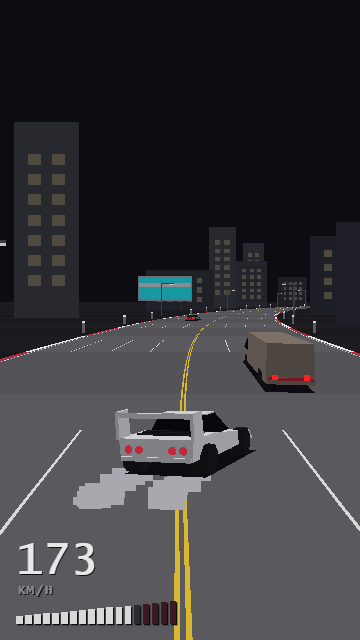
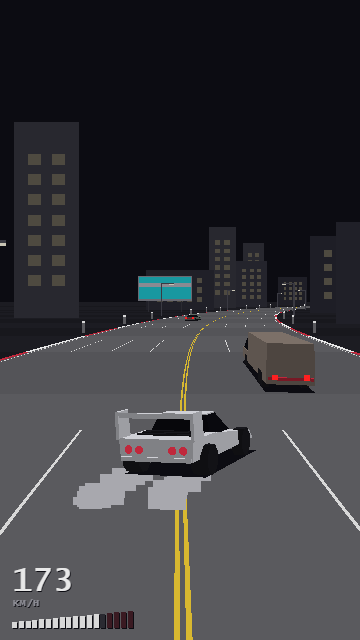
HUD size: em from canvas width (speedometer, leaderboard), divisors in sprites.json

Changed region(s): [[0.0306, 0.8438, 0.5194, 1.0]]

diff --git a/src/ui/speedometer.ts b/src/ui/speedometer.ts
@@ -1,7 +1,19 @@
 import type { Car } from '../sim/types';
 
+/** Size and corner offset of a HUD block over the canvas (src/data/sprites.json). */
+export interface HudLayout {
+  widthEm: number; // canvas width in em: em = min(canvas width / widthEm, canvas height / heightEm)
+  heightEm: number; // canvas height in em (caps em when the canvas is wider than a tall phone)
+  marginEm: number; // offset from the canvas corner, em
+}
+
+/** HUD em in CSS px for the canvas rectangle: width governs on a portrait phone. */
+export function hudEm(r: DOMRect, l: HudLayout): number {
+  return Math.min(r.width / l.widthEm, r.height / l.heightEm);
+}
+
 /** R28 speedometer (numbers in src/data/sprites.json "speedometer"). */
-export interface SpeedometerConfig {
+export interface SpeedometerConfig extends HudLayout {
   vmaxKmh: number; // km/h shown at speed = vmax
   segments: number; // bar segments from 0 to vmax
   boostSegments: number; // extra segments past vmax (boost zone)
@@ -92,10 +104,11 @@ export class Speedometer {
   layout(): void {
     const r = this.canvas.getBoundingClientRect();
     const s = this.root.style;
-    const em = r.height / 48;
+    const em = hudEm(r, this.cfg);
+    const m = em * this.cfg.marginEm;
     s.fontSize = `${em}px`;
-    s.left = `${r.left + em * 1.2}px`;
-    s.bottom = `${window.innerHeight - r.bottom + em * 1.2}px`;
+    s.left = `${r.left + m}px`;
+    s.bottom = `${window.innerHeight - r.bottom + m}px`;
   }
 
   update(reading: SpeedReading): void {

diff --git a/src/ui/leaderboard.ts b/src/ui/leaderboard.ts
@@ -1,5 +1,6 @@
 import type { Car } from '../sim/types';
 import { fillLeaderboard, placeChange, type LeaderRow } from './leaderboardModel';
+import { hudEm, type HudLayout } from './speedometer';
 
 /** R67 leaderboard numbers (src/data/rivals.json). */
 export interface LeaderboardConfig {
@@ -73,6 +74,8 @@ export class Leaderboard {
     private readonly names: readonly string[],
     private readonly raceCount: number,
     private readonly metersPerSegment: number,
+    /** Size and corner offset (sprites.json "leaderboard"). */
+    private readonly layoutCfg: HudLayout,
   ) {
     const style = document.createElement('style');
     style.textContent = STYLE;
@@ -136,10 +139,11 @@ export class Leaderboard {
   layout(): void {
     const r = this.canvas.getBoundingClientRect();
     const s = this.root.style;
-    const em = r.height / 56;
+    const em = hudEm(r, this.layoutCfg);
+    const m = em * this.layoutCfg.marginEm;
     s.fontSize = `${em}px`;
-    s.right = `${window.innerWidth - r.right + em * 1.2}px`;
-    s.top = `${r.top + em * 1.2}px`;
+    s.right = `${window.innerWidth - r.right + m}px`;
+    s.top = `${r.top + m}px`;
   }
 
   /** dt = frame seconds; cars = newest sim state (cars[0] is the player). */

diff --git a/src/render/worldSprites.ts b/src/render/worldSprites.ts
@@ -1,6 +1,6 @@
 import type { Palette } from '../data/render';
 import type { CarView } from './carModel';
-import type { SpeedometerConfig } from '../ui/speedometer';
+import type { HudLayout, SpeedometerConfig } from '../ui/speedometer';
 import type { CarWeightConfig } from './carWeight';
 import type { CrashTumbleConfig } from './crashTumble';
 import type { RivalDrawConfig } from './rivalModels';
@@ -77,6 +77,7 @@ export interface SpritesConfig {
   rivals: RivalDrawConfig;
   driftCamera: ScreenRollConfig;
   speedometer: SpeedometerConfig;
+  leaderboard: HudLayout; // R67 leaderboard size and corner offset
   tailLights: TailLightsConfig;
 }
 

diff --git a/src/app/main.ts b/src/app/main.ts
@@ -471,6 +471,7 @@ const leaderboard = rivalUiOn
       rivalNames,
       1 + rivalCount,
       metersPerSegment,
+      spritesConfig.leaderboard,
     )
   : null;
 // Frame seconds of the last updateVisuals() (rival yaw smoothing and the place flash).

diff --git a/docs/balance.md b/docs/balance.md
@@ -260,3 +260,5 @@
 | 2026-11-20 | R85d (форма, чисел нет): `leadRamp` 0.4 с остаётся | `ramp*L` | `max(ramp*L, min(L, Lg))`, `Lg` — опережение GRIP R85b+R85c этого тика [T68, доработка] | R89b: резкий руль 0 → 1 за 80 мс с пальцем — полоса за 0.633 с при границе 0.45 с; `leadRamp` 0.1 тоже проходит (0.425 с), но 0.4 закреплено тестом данных | замер: резкий руль 0.633 → 0.325 с; критерий R85d `vx` 1.493 ≤ 1.500 (GRIP); тап-дрифт медленнее GRIP во всех 6 окнах, запас +0.058…+0.333 с (как при старой форме); круг держаного дрифта `drift-run` 108.82 / 108.82 (0.00%), `test-twisty` 81.83 / 81.82 (0.01%) |
 | 2026-11-20 | `cars/base.json`: `driftTurbo`; `hypotheses.json`: `H18_driftTurbo` | 1; B | 0; A [решено автором, T68] | R86c/R86d отложены до полировки: ускорение на выходе из дрифта выключено | — |
 | 2026-11-20 | `sprites.json`: блок `stick` удаляется | кольцо `#d8d8d8` / `#ffe14a`, точка, граница `#c0283c` | — [решено автором, T68] | R81d снято: кольца под пальцем не видно; подсказка — отдельное решение (ADR будет) | — |
+| 2026-11-20 | `sprites.json` (`speedometer`): новые `widthEm` / `heightEm` / `marginEm` | em = высота холста / 48, отступ 1.2 em (числа в коде) | em = min(ширина / 36, высота / 64), отступ 1.2 em | R28: на телефоне спидометр «ОГРОМНЫЙ» (автор) — на 390×844 холст не 9:16, em от высоты слишком велик; теперь em от ширины, высота только ограничивает. Только размер, стиль не менялся | Playwright, сцена `rivals`, 360×640 / 360×800 / 390×844 / 412×915 (мобильная эмуляция, DPR 2–3): ширина блока 44.6–55.8% → 33.4–33.5% ширины холста (критерий ≤ 36%), высота 13.0% → 7.8–9.8% высоты (≤ 11%), высота цифр 31–46 → 23–27 px (≥ 18); кадры `rivals`, `drift-camera` |
+| 2026-11-20 | `sprites.json`: новый блок `leaderboard` (`widthEm` / `heightEm` / `marginEm`) | em = высота холста / 56, отступ 1.2 em (числа в коде) | em = min(ширина / 38, высота / 64), отступ 1.2 em | R67: таблица занимала больше половины ширины экрана телефона; число строк `leaderboardRows` (5) не трогали. Только размер, стиль не менялся | тот же замер: ширина 46.3–57.9% → 38.4% (≤ 40%), высота 17.0–17.1% → 11.3–14.1% (≤ 16%), текст строк 10.9–15.5 → 9.0–10.3 px (≥ 9); кадр `rivals` |
